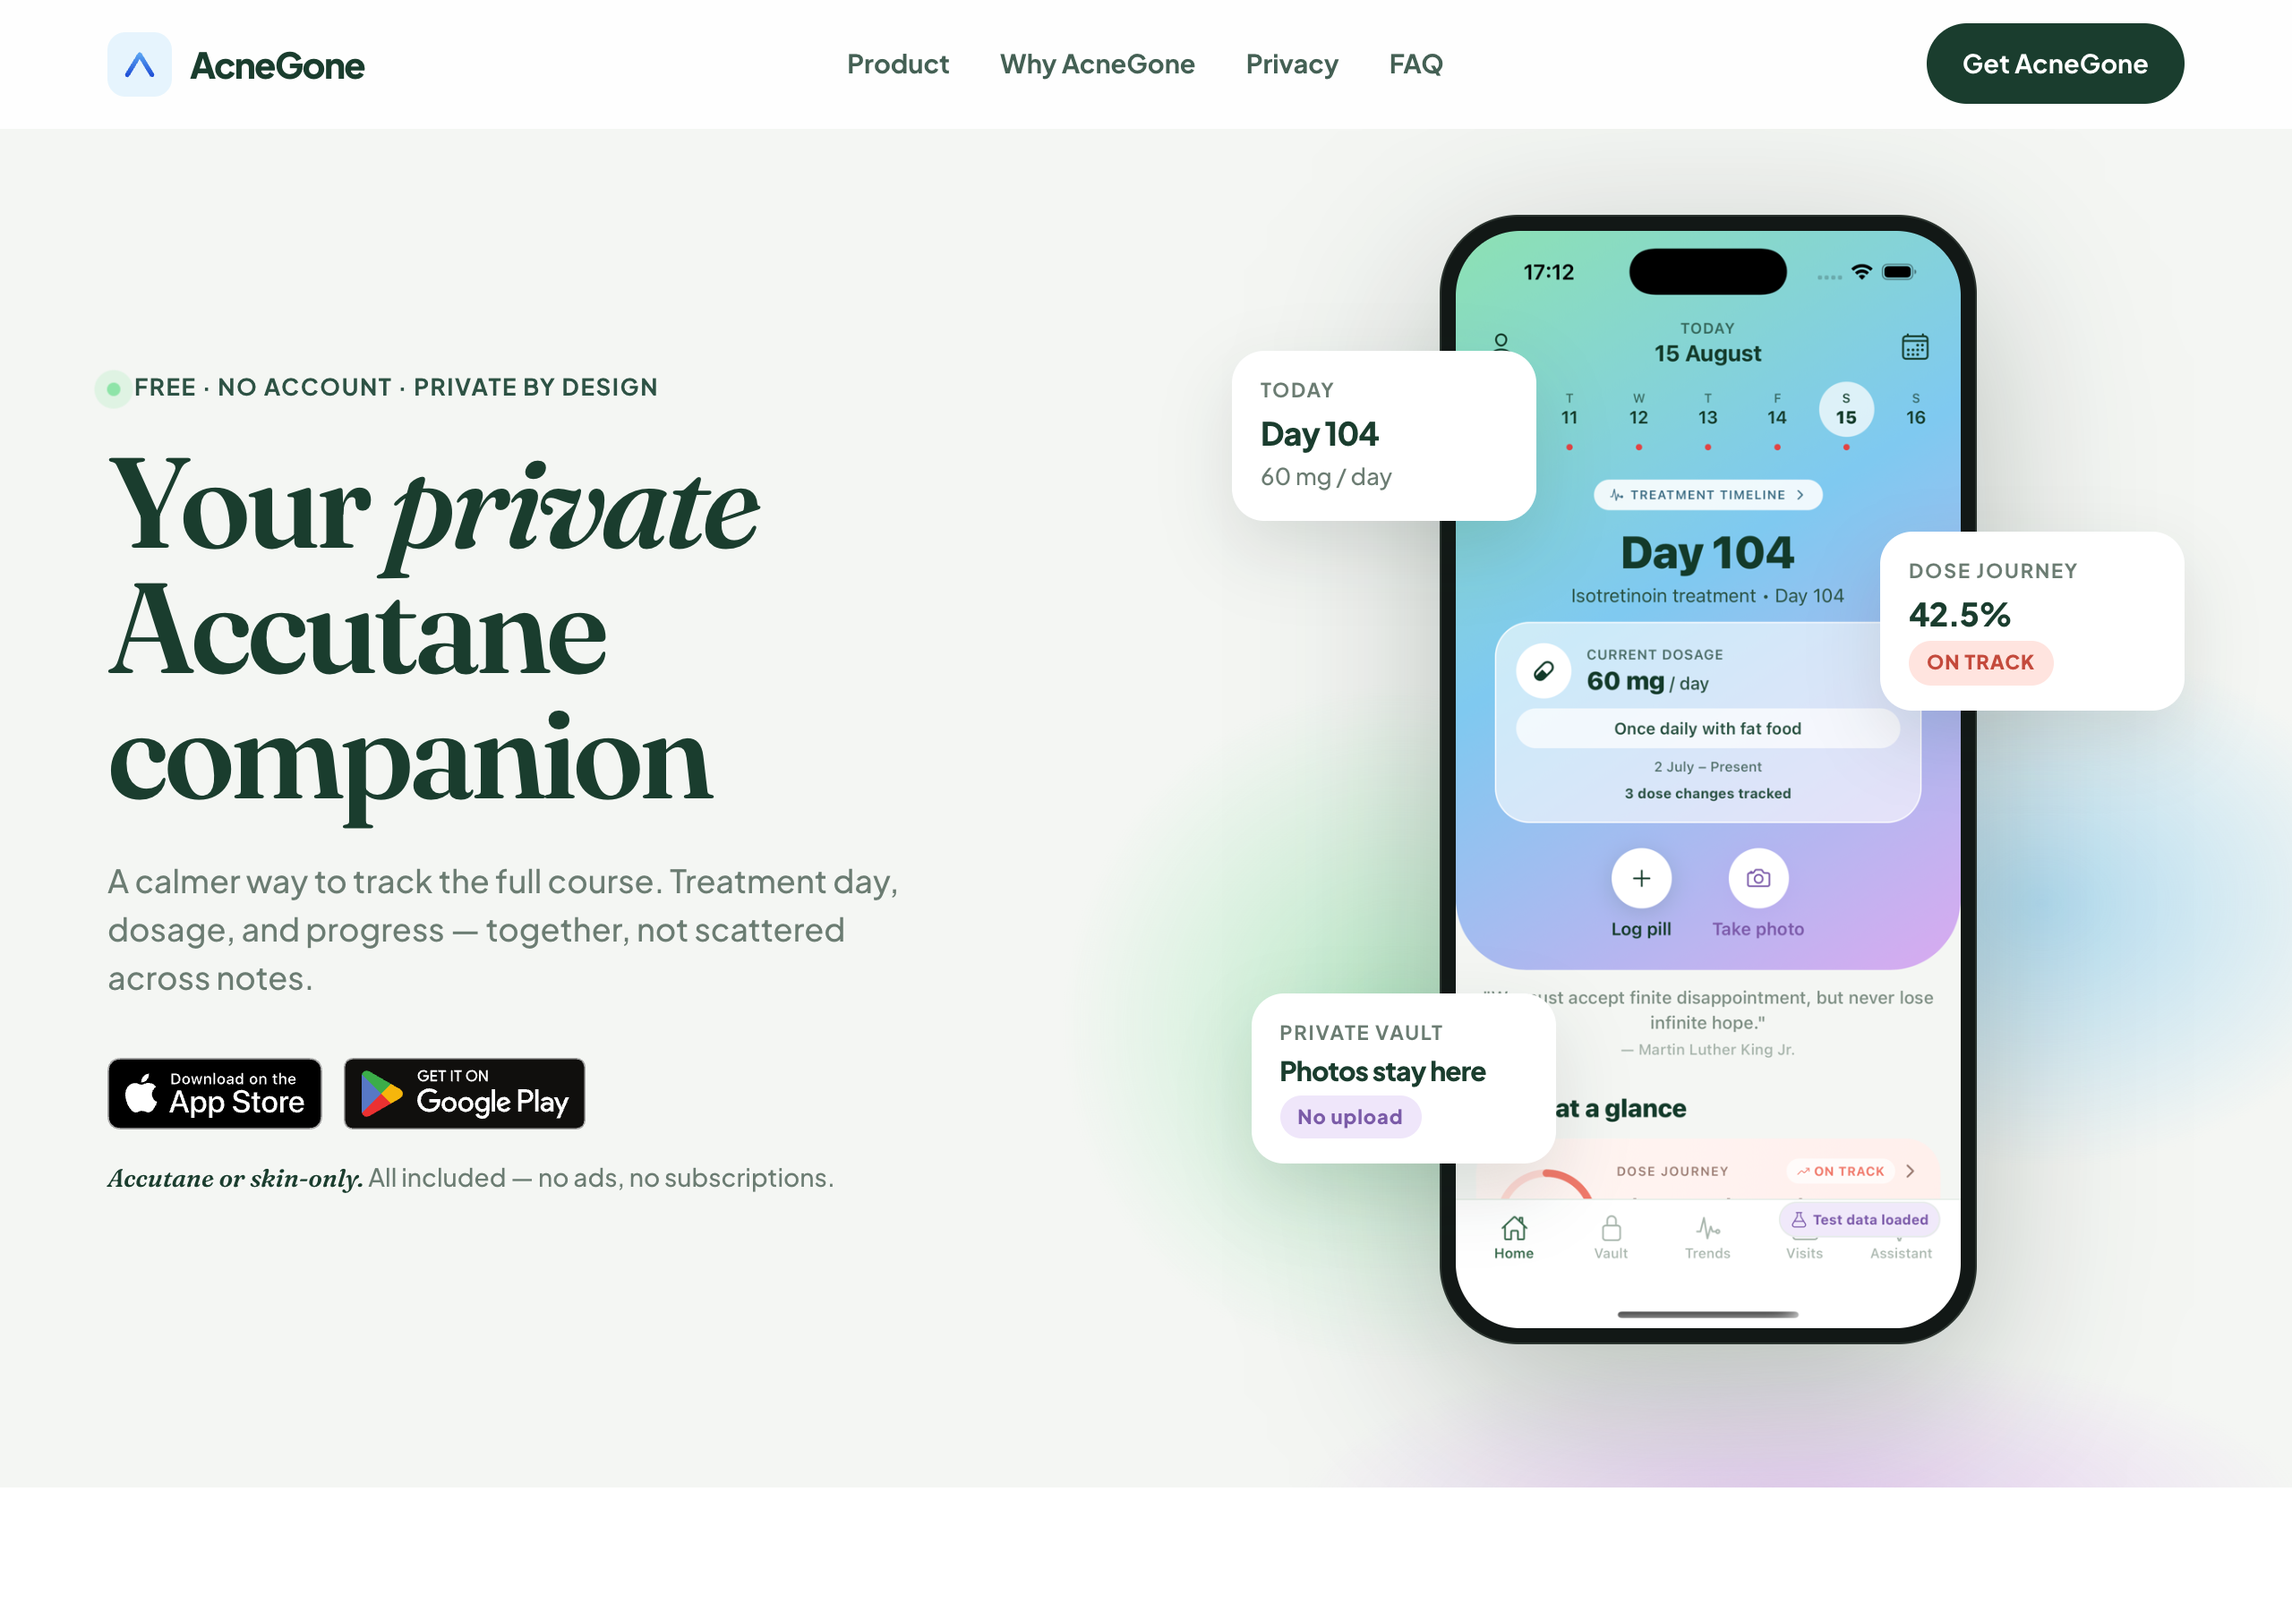
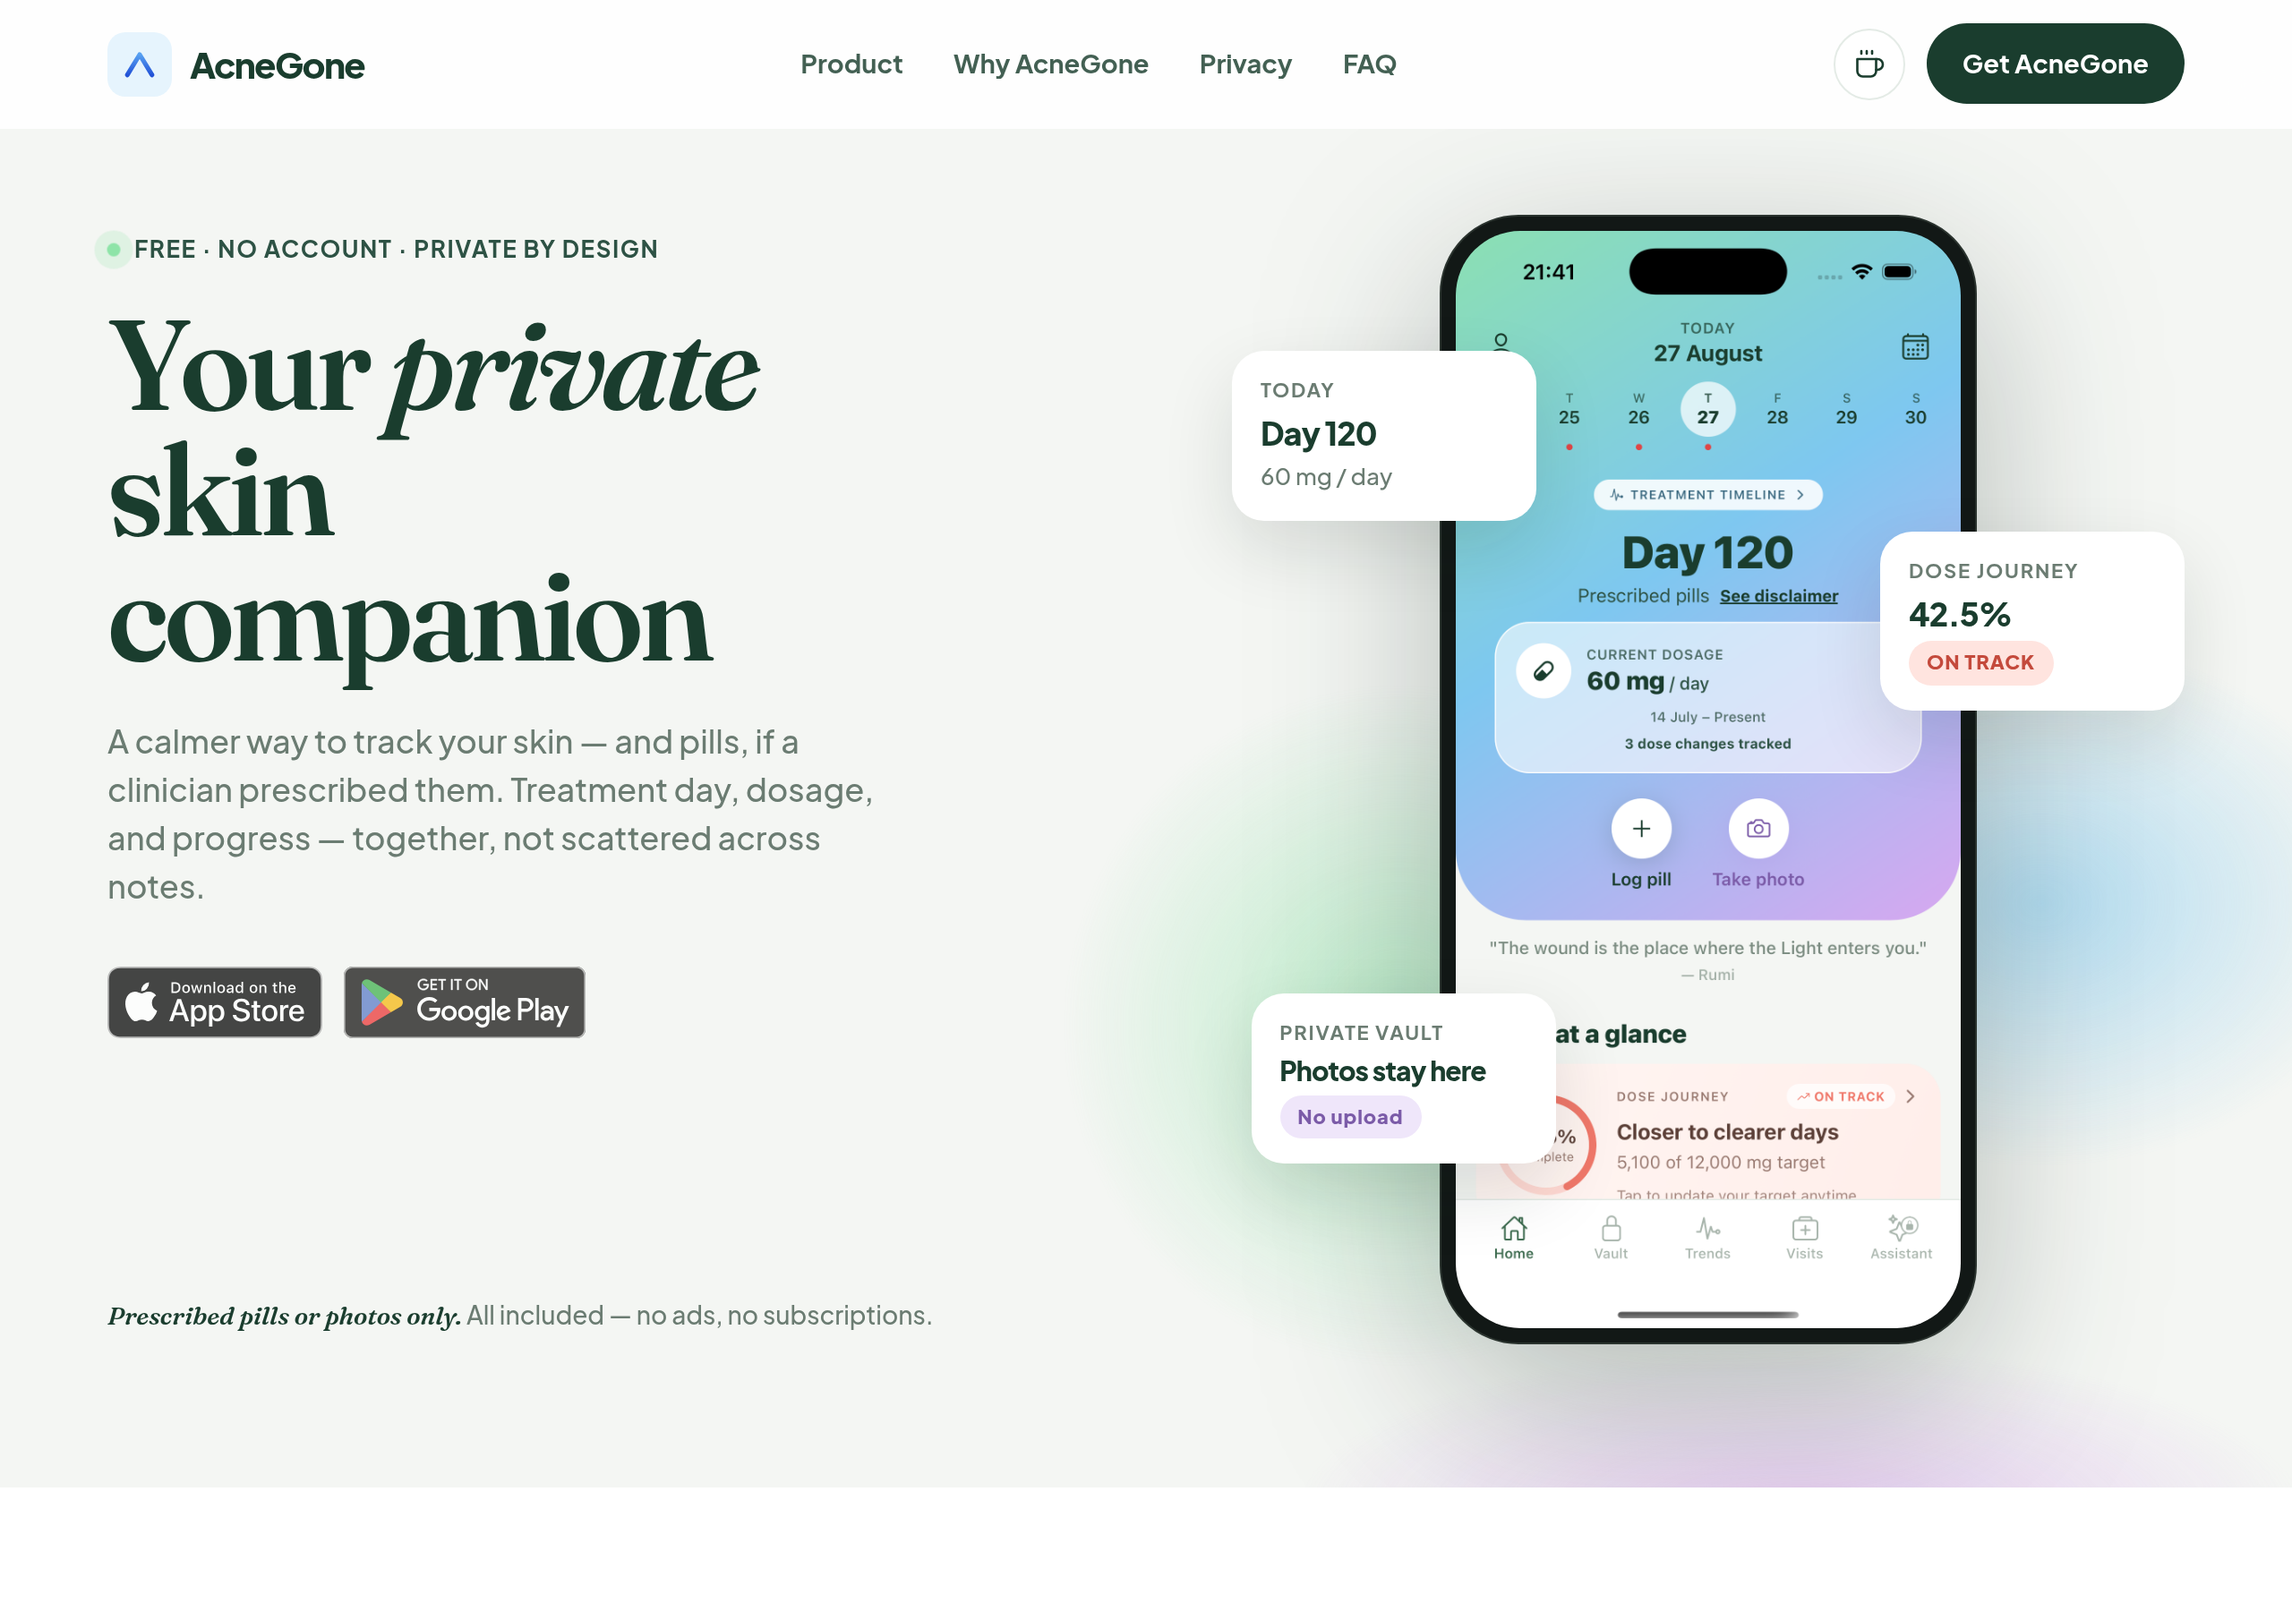
Align the landing page with the current app UI.
Drop Accutane/isotretinoin copy, swap in Day 120 screenshots, and note
that preview faces are AI-generated. Keep the existing layout and design.

diff --git a/index.html b/index.html
@@ -3,11 +3,11 @@
 <head>
   <meta charset="utf-8" />
   <meta name="viewport" content="width=device-width, initial-scale=1" />
-  <title>AcneGone — Your private Accutane companion</title>
-  <meta name="description" content="AcneGone is a free, private Accutane and skin companion. Track your full course, keep progress photos on your phone, and walk into derm visits prepared. No account. No ads." />
+  <title>AcneGone — Your private skin companion</title>
+  <meta name="description" content="AcneGone is a free, private skin tracker. Optional pill diary if your dermatologist prescribed tablets. Keep progress photos on your phone and walk into derm visits prepared. No account. No ads." />
   <link rel="canonical" href="https://insomniac-engineer.github.io/AcneGone-website/" />
-  <meta property="og:title" content="AcneGone — Your private Accutane companion" />
-  <meta property="og:description" content="A calmer way to track the full course. Free. No account. Photos stay on your phone." />
+  <meta property="og:title" content="AcneGone — Your private skin companion" />
+  <meta property="og:description" content="A calmer way to track your skin — and pills, if prescribed. Free. No account. Photos stay on your phone." />
   <meta property="og:image" content="assets/og.png" />
   <meta property="og:type" content="website" />
   <meta name="theme-color" content="#F4F6F3" />
@@ -78,8 +78,8 @@
       <div class="wrap hero-grid">
         <div>
           <p class="kicker"><span class="dot"></span> Free · no account · private by design</p>
-          <h1>Your <em>private</em><br />Accutane<br />companion</h1>
-          <p class="lede">A calmer way to track the full course. Treatment day, dosage, and progress — together, not scattered across notes.</p>
+          <h1>Your <em>private</em><br />skin<br />companion</h1>
+          <p class="lede">A calmer way to track your skin — and pills, if a clinician prescribed them. Treatment day, dosage, and progress — together, not scattered across notes.</p>
           <div class="store-row">
             <a class="store-badge store-badge--apple is-soon" href="#download" aria-label="Download on the App Store — coming soon">
               <img src="assets/badges/app-store.svg" alt="" decoding="async" />
@@ -100,13 +100,13 @@
               </ol>
             </details>
           </div>
-          <p class="hero-note"><em>Accutane or skin-only.</em> All included — no ads, no subscriptions.</p>
+          <p class="hero-note"><em>Prescribed pills or photos only.</em> All included — no ads, no subscriptions.</p>
         </div>
 
         <div class="hero-stage">
           <aside class="float-card day">
             <div class="label">Today</div>
-            <div class="value">Day 104</div>
+            <div class="value">Day 120</div>
             <div style="color:var(--muted);font-size:13px;margin-top:2px">60 mg / day</div>
           </aside>
           <aside class="float-card track">
@@ -123,7 +123,7 @@
             <div class="phone-bezel">
               <div class="phone-screen">
                 <span class="phone-island"></span>
-                <img src="assets/screens/home.png" alt="AcneGone home screen showing Day 104 of isotretinoin treatment and 60 mg daily dosage" />
+                <img src="assets/screens/home.png" alt="AcneGone home screen showing Day 120, prescribed pills, and 60 mg daily dosage" />
               </div>
             </div>
           </div>
@@ -135,7 +135,7 @@
       <div class="wrap">
         <p class="section-kicker">The treatment view</p>
         <h2>What can you do with <em>AcneGone</em>?</h2>
-        <p class="section-lead">The full course, made visible — from the first dose to the next derm visit.</p>
+        <p class="section-lead">Your skin journey, made visible — from the first photo to the next derm visit. Faces in screenshots are AI-generated sample data.</p>
 
         <div class="features-grid">
           <div class="feature-list" role="tablist" aria-label="Product features">
@@ -188,7 +188,7 @@
       <div class="wrap">
         <p class="section-kicker">Why AcneGone</p>
         <h2>A quieter way <em>forward</em></h2>
-        <p class="section-lead">We know how hard and overwhelming the treatment path can feel. Private care, organized beautifully — so you can track the course without adding more noise to your day.</p>
+        <p class="section-lead">We know how hard and overwhelming the path can feel. Private care, organized beautifully — so you can track progress without adding more noise to your day.</p>
         <div class="why-grid">
           <article class="why-card">
             <div class="why-icon bg-blue">
@@ -202,7 +202,7 @@
               <svg viewBox="0 0 24 24" fill="none" stroke="currentColor" stroke-width="2"><circle cx="12" cy="12" r="9"/><path d="M12 7v5l3 2"/></svg>
             </div>
             <h3>The full course, visible</h3>
-            <p>See cumulative mg against a 120–150 mg/kg target, dosage history, and whether you are on track — in one glance.</p>
+            <p>See cumulative mg against a target you can change anytime, dosage history, and whether you are on track — in one glance.</p>
           </article>
           <article class="why-card">
             <div class="why-icon bg-lilac">
@@ -301,12 +301,12 @@
             <p>No. Progress photos are stored only on this device. They are not uploaded to AcneGone servers and are kept out of your camera roll.</p>
           </details>
           <details class="faq-item">
-            <summary>Is it only for Accutane?</summary>
-            <p>No. You can track isotretinoin (Accutane) treatment, or use AcneGone skin-only for private progress photos and symptoms.</p>
+            <summary>Is it only for prescribed pills?</summary>
+            <p>No. You can keep a private pill diary if a clinician prescribed tablets, or use AcneGone photos-only for progress photos and symptoms.</p>
           </details>
           <details class="faq-item">
             <summary>Is AcneGone a medical device?</summary>
-            <p>No. AcneGone is a personal tracking tool and daily diary. It does not provide medical advice, diagnosis, or treatment. Always consult your dermatologist or qualified healthcare provider regarding prescription medications like Isotretinoin/Accutane.</p>
+            <p>No. AcneGone is a personal tracking tool and daily diary. It does not provide medical advice, diagnosis, or treatment. Always consult your dermatologist or qualified healthcare provider about any prescribed medication.</p>
           </details>
         </div>
       </div>
@@ -320,7 +320,7 @@
       <div class="wrap">
         <p class="section-kicker" style="color:#8ee4a8">Closer to clearer days</p>
         <h2 class="h2">Private care,<br /><em>organized beautifully</em></h2>
-        <p class="section-lead">Treatment tracking that stays with you — from the first dose to the next derm visit.</p>
+        <p class="section-lead">Tracking that stays with you — from the first photo to the next derm visit.</p>
         <div class="store-row store-row--center">
           <a class="store-badge store-badge--apple is-soon" href="#download" aria-label="Download on the App Store — coming soon">
             <img src="assets/badges/app-store.svg" alt="" decoding="async" />
@@ -345,7 +345,7 @@
           AcneGone is free — no ads, no subscriptions. If it helps you on your journey, you can
           <a class="support-link" data-support-link href="#">buy me a coffee</a>.
         </p>
-        <p class="disclaimer">AcneGone is a personal tracking tool and daily diary. It does not provide medical advice, diagnosis, or treatment. Always consult your dermatologist or qualified healthcare provider regarding prescription medications like Isotretinoin/Accutane. Accutane is a trademark of its owner.</p>
+        <p class="disclaimer">AcneGone is a personal tracking tool and daily diary. It does not provide medical advice, diagnosis, or treatment. Always consult your dermatologist or qualified healthcare provider about any prescribed medication. Faces in screenshots are AI-generated sample data, not a real person.</p>
       </div>
     </section>
   </main>
@@ -362,7 +362,7 @@
             </span>
             AcneGone
           </a>
-          <p>Your private Accutane companion. Free, local-first, and built for the full course.</p>
+          <p>Your private skin companion. Free, local-first, and built to stay on your phone.</p>
         </div>
         <div>
           <h4>Product</h4>
@@ -400,7 +400,7 @@
 
   <dialog class="med-dialog" id="med-dialog" aria-labelledby="med-dialog-title">
     <h2 id="med-dialog-title">Medical disclaimer</h2>
-    <p>AcneGone is a personal tracking tool and daily diary. It does not provide medical advice, diagnosis, or treatment. Always consult your dermatologist or qualified healthcare provider regarding prescription medications like Isotretinoin/Accutane.</p>
+    <p>AcneGone is a personal tracking tool and daily diary. It does not provide medical advice, diagnosis, or treatment. Always consult your dermatologist or qualified healthcare provider about any prescribed medication.</p>
     <form method="dialog">
       <button type="submit" class="btn btn-primary">Got it</button>
     </form>

diff --git a/privacy.html b/privacy.html
@@ -55,10 +55,10 @@
     <article class="wrap">
       <p class="section-kicker">Legal</p>
       <h1>Privacy policy</h1>
-      <p class="meta">Last updated: 15 August 2026</p>
+      <p class="meta">Last updated: 28 August 2026</p>
 
       <h2>What AcneGone is</h2>
-      <p>AcneGone is a personal skin and isotretinoin (Accutane) tracker. It is not a medical device, does not diagnose or treat acne, and does not replace advice from a qualified clinician.</p>
+      <p>AcneGone is a personal skin tracker. If your dermatologist prescribed pills, you can also keep a private dose diary. It is not a medical device, does not diagnose or treat acne, and does not replace advice from a qualified clinician.</p>
 
       <h2>What stays on your phone</h2>
       <p>Progress photos, pill logs, symptoms, dosage history, dose goals, and dermatologist visits are stored only on this device. Photos are not uploaded to AcneGone servers. Android backup of app data is disabled so those files are not copied to Google Drive.</p>
@@ -97,7 +97,7 @@
 
   <dialog class="med-dialog" id="med-dialog" aria-labelledby="med-dialog-title">
     <h2 id="med-dialog-title">Medical disclaimer</h2>
-    <p>AcneGone is a personal tracking tool and daily diary. It does not provide medical advice, diagnosis, or treatment. Always consult your dermatologist or qualified healthcare provider regarding prescription medications like Isotretinoin/Accutane.</p>
+    <p>AcneGone is a personal tracking tool and daily diary. It does not provide medical advice, diagnosis, or treatment. Always consult your dermatologist or qualified healthcare provider about any prescribed medication.</p>
     <form method="dialog">
       <button type="submit" class="btn btn-primary">Got it</button>
     </form>

diff --git a/README.md b/README.md
@@ -1,7 +1,9 @@
 # AcneGone website
 
-**[AcneGone](https://github.com/insomniac-engineer/AcneGone)** — a free, private companion for isotretinoin (Accutane) and skin tracking. No account, no ads, photos stay on your phone.
+**[AcneGone](https://github.com/insomniac-engineer/AcneGone)** — a free, private skin tracker. Optional pill diary if your dermatologist prescribed tablets. No account, no ads, photos stay on your phone.
 **Live site:** https://insomniac-engineer.github.io/AcneGone-website/
+
+Faces in landing screenshots are AI-generated sample data, not a real person.
 
 ![AcneGone landing page — hero with phone mockup, floating stat cards, and store badges](screenshots/01-hero.png)
 
